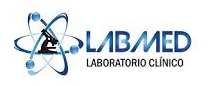
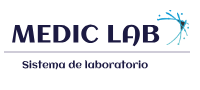
vistima

diff --git a/proyecto-laboratorio/src/main/java/sigelab/web/controller/asistencial/laboratorio/OrdenController.java b/proyecto-laboratorio/src/main/java/sigelab/web/controller/asistencial/laboratorio/OrdenController.java
@@ -1014,7 +1014,7 @@ for (OrdenDetalleBean objOrdenDetalleBean :ordenBean.getLstOrdenDetalleBean()) {
         	MimeMessage message = new MimeMessage(s);
         	message.setFrom(new InternetAddress("informatica.hch.2018@gmail.com"));
         	message.setRecipients(Message.RecipientType.TO, InternetAddress.parse(to));
-        	message.setSubject("LABMED-Resultados analisis de laboratorio del paciente "+getOrdenBean().getPacienteBean().getPersona().getNombreCompleto());
+        	message.setSubject("MEDIC LAB-Resultados analisis de laboratorio del paciente "+getOrdenBean().getPacienteBean().getPersona().getNombreCompleto());
       
         	// message.setText(text, "utf-8", "html");
 

diff --git a/proyecto-laboratorio/src/main/java/sigelab/web/controller/asistencial/banco/BancoController.java b/proyecto-laboratorio/src/main/java/sigelab/web/controller/asistencial/banco/BancoController.java
@@ -179,7 +179,7 @@ public class BancoController  extends BaseController {
 				if(personaBean!=null){  
 					System.out.println("persona existe en sigehov2gene");
 					System.out.println(personaBean.getNombreCompleto());
-					personaBean.setOrigenDatos("LABMED");
+					personaBean.setOrigenDatos("MEDIC LAB");
 					
 					System.out.println("personaBean.getCodigo() " + personaBean.getCodigo());
 					PostulanteBean postulante = new PostulanteBean();

diff --git a/proyecto-laboratorio/src/main/java/sigelab/web/controller/general/PersonaController.java b/proyecto-laboratorio/src/main/java/sigelab/web/controller/general/PersonaController.java
@@ -394,7 +394,7 @@ public class PersonaController {
 				if(personaBean!=null){  
 					System.out.println("persona existe en sigehov2gene");
 					System.out.println(personaBean.getNombreCompleto());
-				//	personaBean.setOrigenDatos("LABMED");
+				//	personaBean.setOrigenDatos("MEDIC LAB");
 					
 					System.out.println("personaBean.getCodigo() " + personaBean.getCodigo());
 					PostulanteBean postulante = new PostulanteBean();
